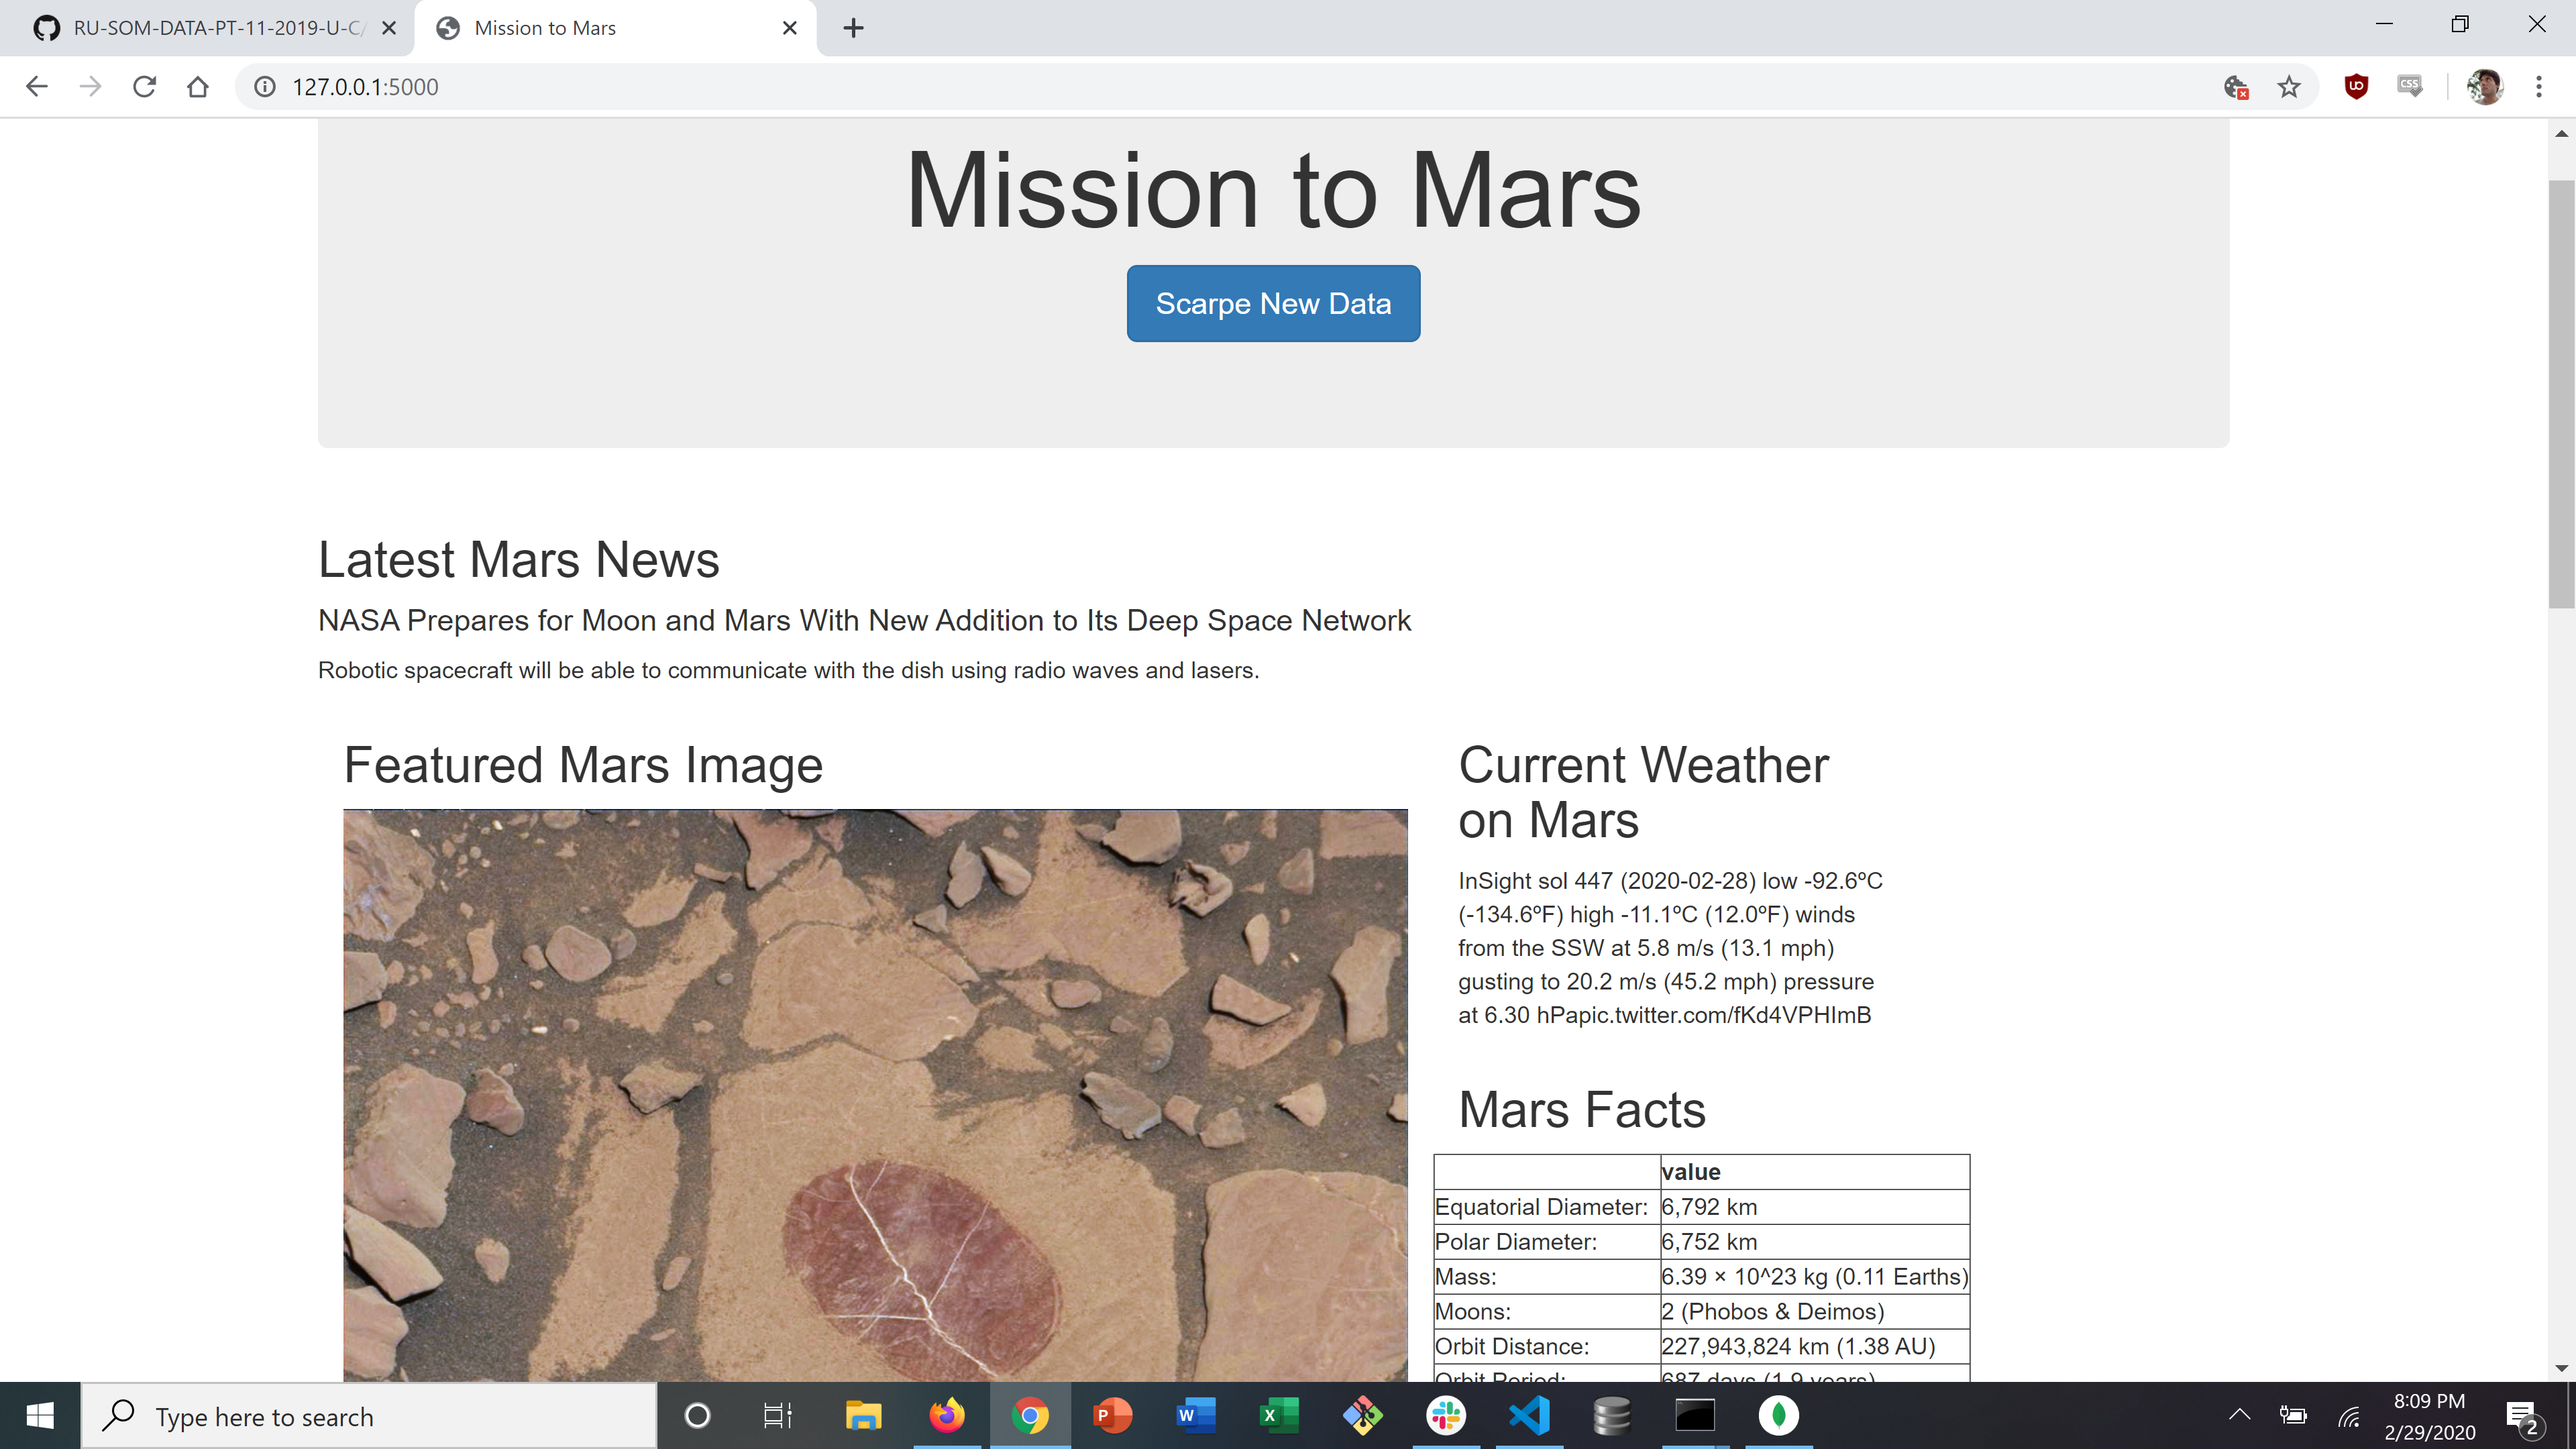
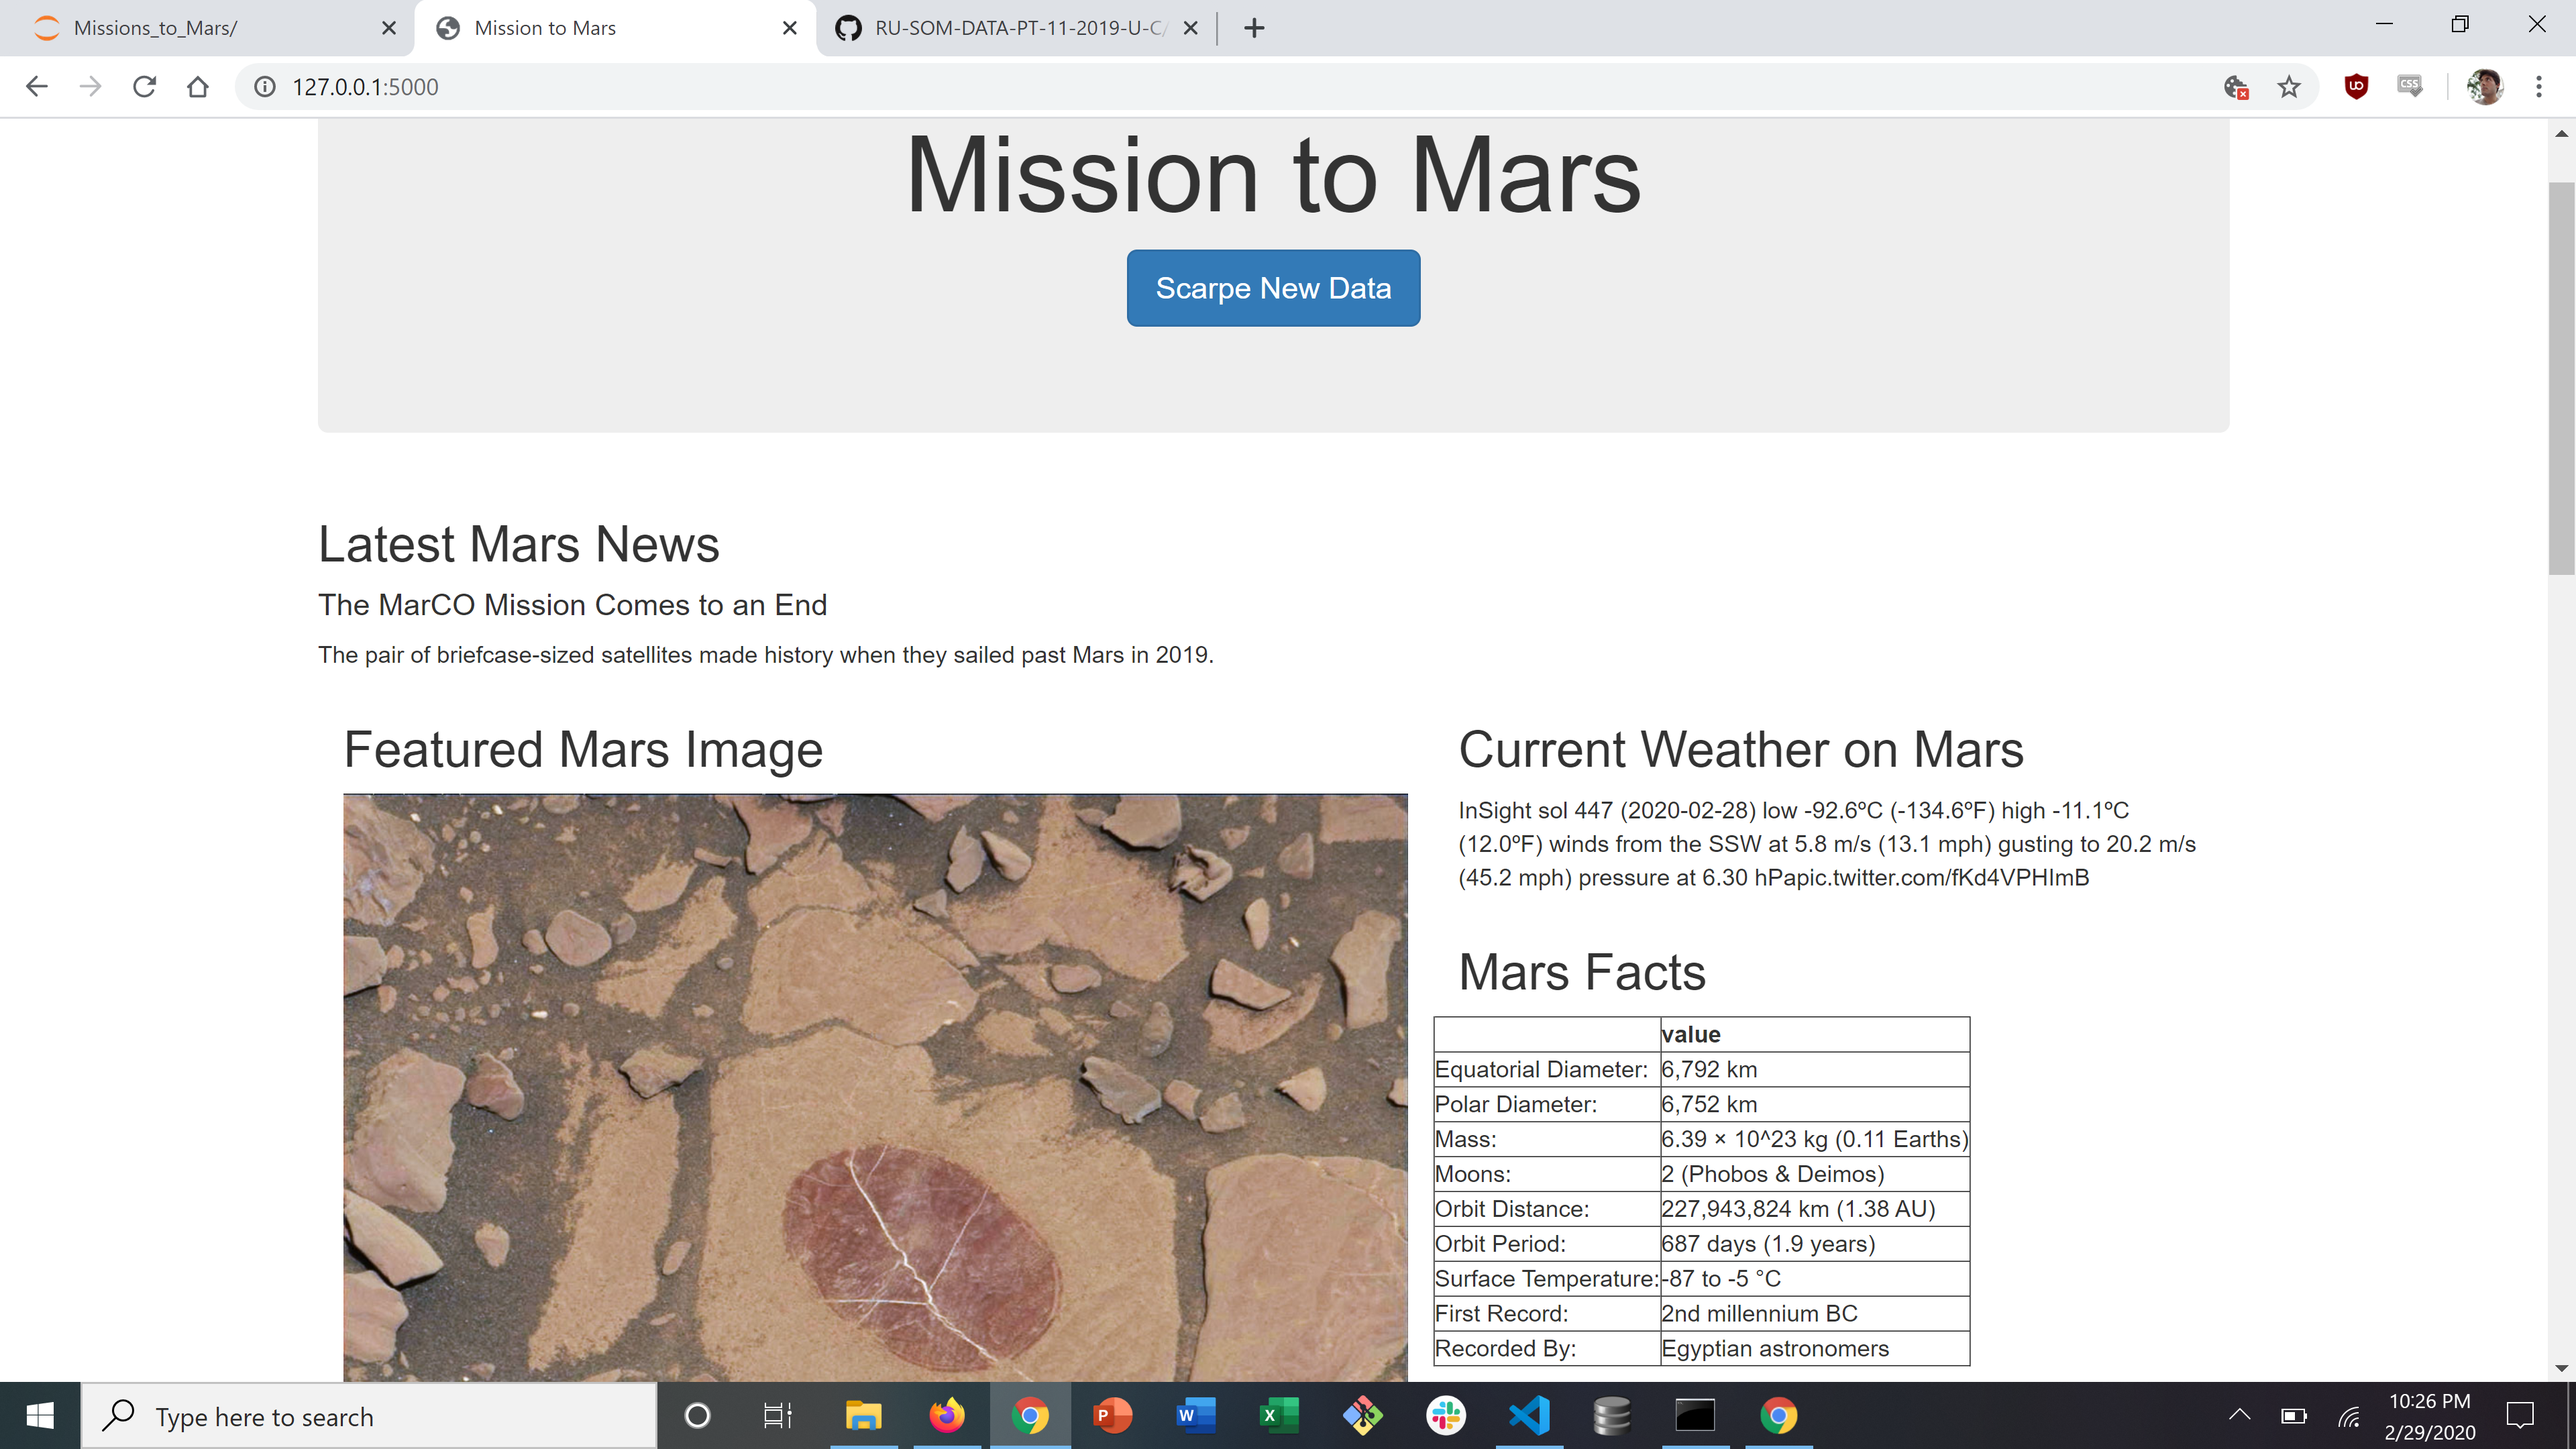
updated mars news scrape section

diff --git a/Missions_to_Mars/templates/index.html b/Missions_to_Mars/templates/index.html
@@ -36,7 +36,7 @@
         <img src={{mars_data.featured_image_url}} width="100%">
       </div>
   
-      <div class="col-md-3">
+      <div class="col-md-5">
       <h2>Current Weather on Mars</h2>
       <p>{{mars_data.mars_weather}}</p>
     </div>
@@ -60,13 +60,13 @@
       </table>
     <div class="row">
       <div class="col-md-12">
-        <h2>Mars Hemispheres</h2>
+        <h2 class="text-center">Mars Hemispheres</h2>
       </div>
     </div>
     <div class="row">
       
       {% for pic in mars_data.hemisphere_urls %}
-      <div class="col-md-5">
+      <div class="col-md-6">
       <h3>{{pic.title}}</h3>
       <img src={{pic.img_url}} width="100%">
     </div>

diff --git a/Missions_to_Mars/scrape_mars.py b/Missions_to_Mars/scrape_mars.py
@@ -5,21 +5,24 @@ import pandas as pd
 from splinter import Browser
 
 def init_browser():
-    # @NOTE: Replace the path with your actual path to the chromedriver
     executable_path = {"executable_path": "C:/Users/nickc/Downloads/chromedriver_win32/chromedriver.exe"}
     return Browser("chrome", **executable_path, headless=False)
-
+#function used to scrape websites
 def scrape():
+    #dictonary for all data collected from webscraping to be return and loaded in mongodb
     mars_data={}
+    browser=init_browser()
     url="https://mars.nasa.gov/news/"
-    response=requests.get(url)
-    soup=BeautifulSoup(response.text,'html.parser')
+    browser.visit(url)
+    html=browser.html
+    soup=BeautifulSoup(html,'html.parser')
 
-    mars_data["news_title"]=soup.find('div', class_='content_title').text
-    mars_data["news_p"]=soup.find('div',class_="rollover_description_inner").text
+    news=soup.find('li', class_='slide')
+    mars_data["news_title"]=news.find('h3').text
+    mars_data["news_p"]=news.find('div',class_="rollover_description_inner").text
 
     url="https://www.jpl.nasa.gov/spaceimages/?search=&category=Mars"
-    browser=init_browser()
+    
     browser.visit(url)
 
     browser.fill('search','Featured')
@@ -57,6 +60,7 @@ def scrape():
     mars_table=pd.read_html(url)
     mars_table=pd.DataFrame(mars_table[0])
     mars_facts=[]
+    #creating a dictonary for mars facts, used to create table in html page
     for i in  mars_table.index:
         mars_facts.append({"type":mars_table[0][i], "value":mars_table[1][i]})
     mars_data["mars_facts"]=mars_facts

diff --git a/Missions_to_Mars/app.py b/Missions_to_Mars/app.py
@@ -4,7 +4,6 @@ import scrape_mars
 
 app = Flask(__name__)
 
-#app.config["MONGO_URI"] = "mongodb://localhost:27017/mars_app"
 
 mongo = PyMongo(app, uri="mongodb://localhost:27017/mars_app")
 
